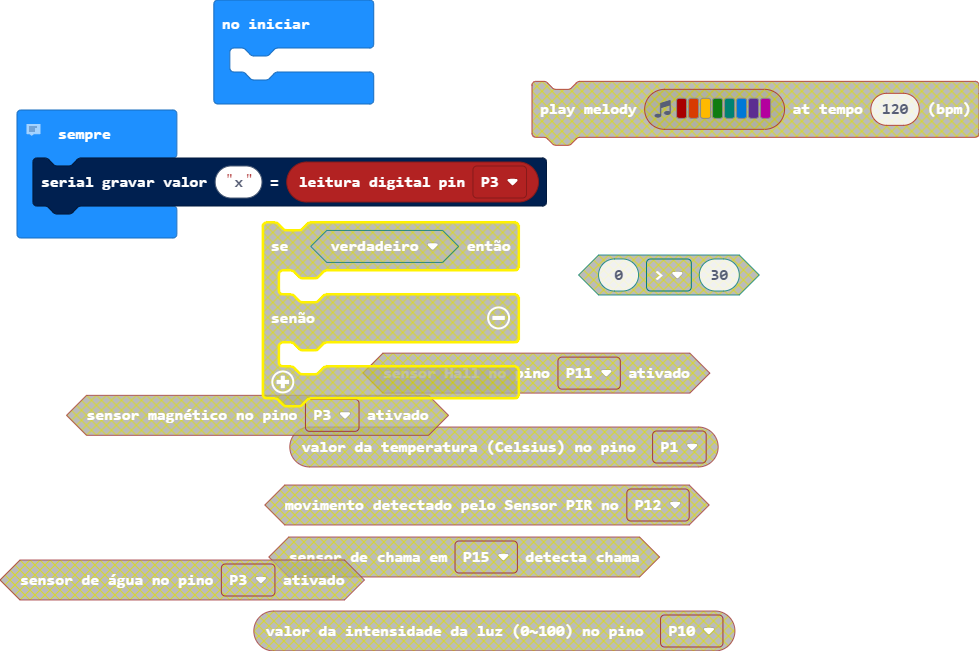
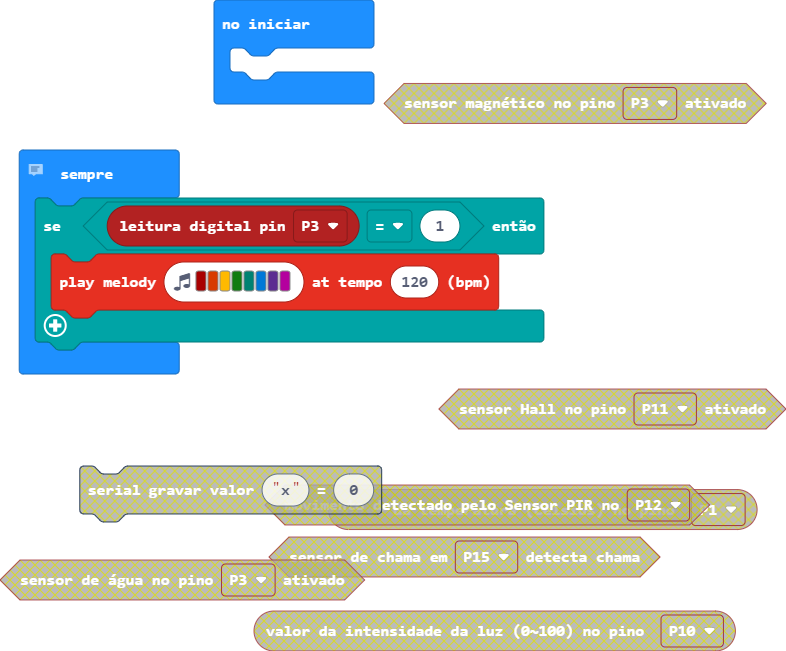
Update main.blocks, main.ts, hackbit.ts

diff --git a/hackbit.ts b/hackbit.ts
@@ -372,10 +372,10 @@ namespace hackbit {
     export function MagneticSwitchState(pin: DigitalPin): boolean {
         pins.setPull(pin, PinPullMode.PullUp)
         if (pins.digitalReadPin(pin) == 0) {
-            return false
+            return true
         }
         else {
-            return true
+            return false
         }
     }
 

diff --git a/main.ts b/main.ts
@@ -1,4 +1,6 @@
 // www.hackids.com.br
 basic.forever(function () {
-    serial.writeValue("x", pins.digitalReadPin(DigitalPin.P3))
+    if (pins.digitalReadPin(DigitalPin.P3) == 1) {
+        music.playMelody("C5 B A G F E D C ", 120)
+    }
 })
